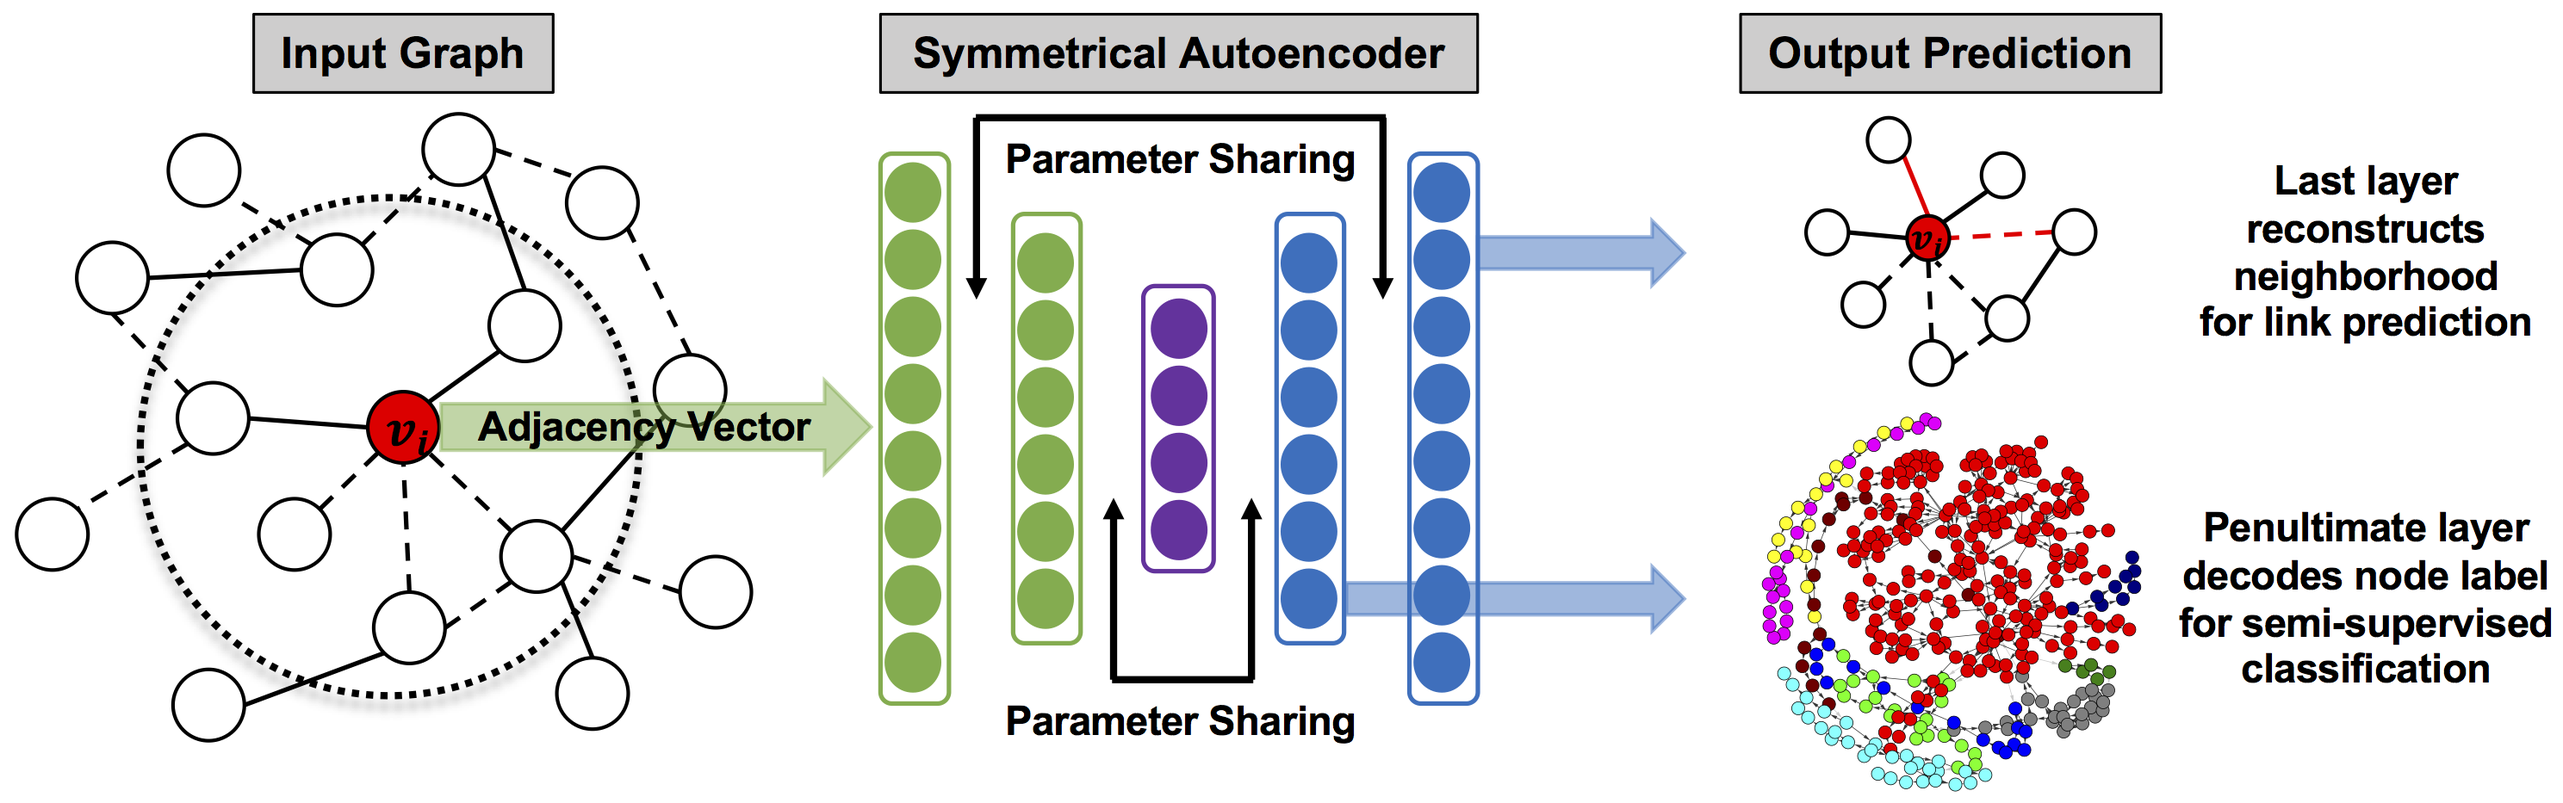
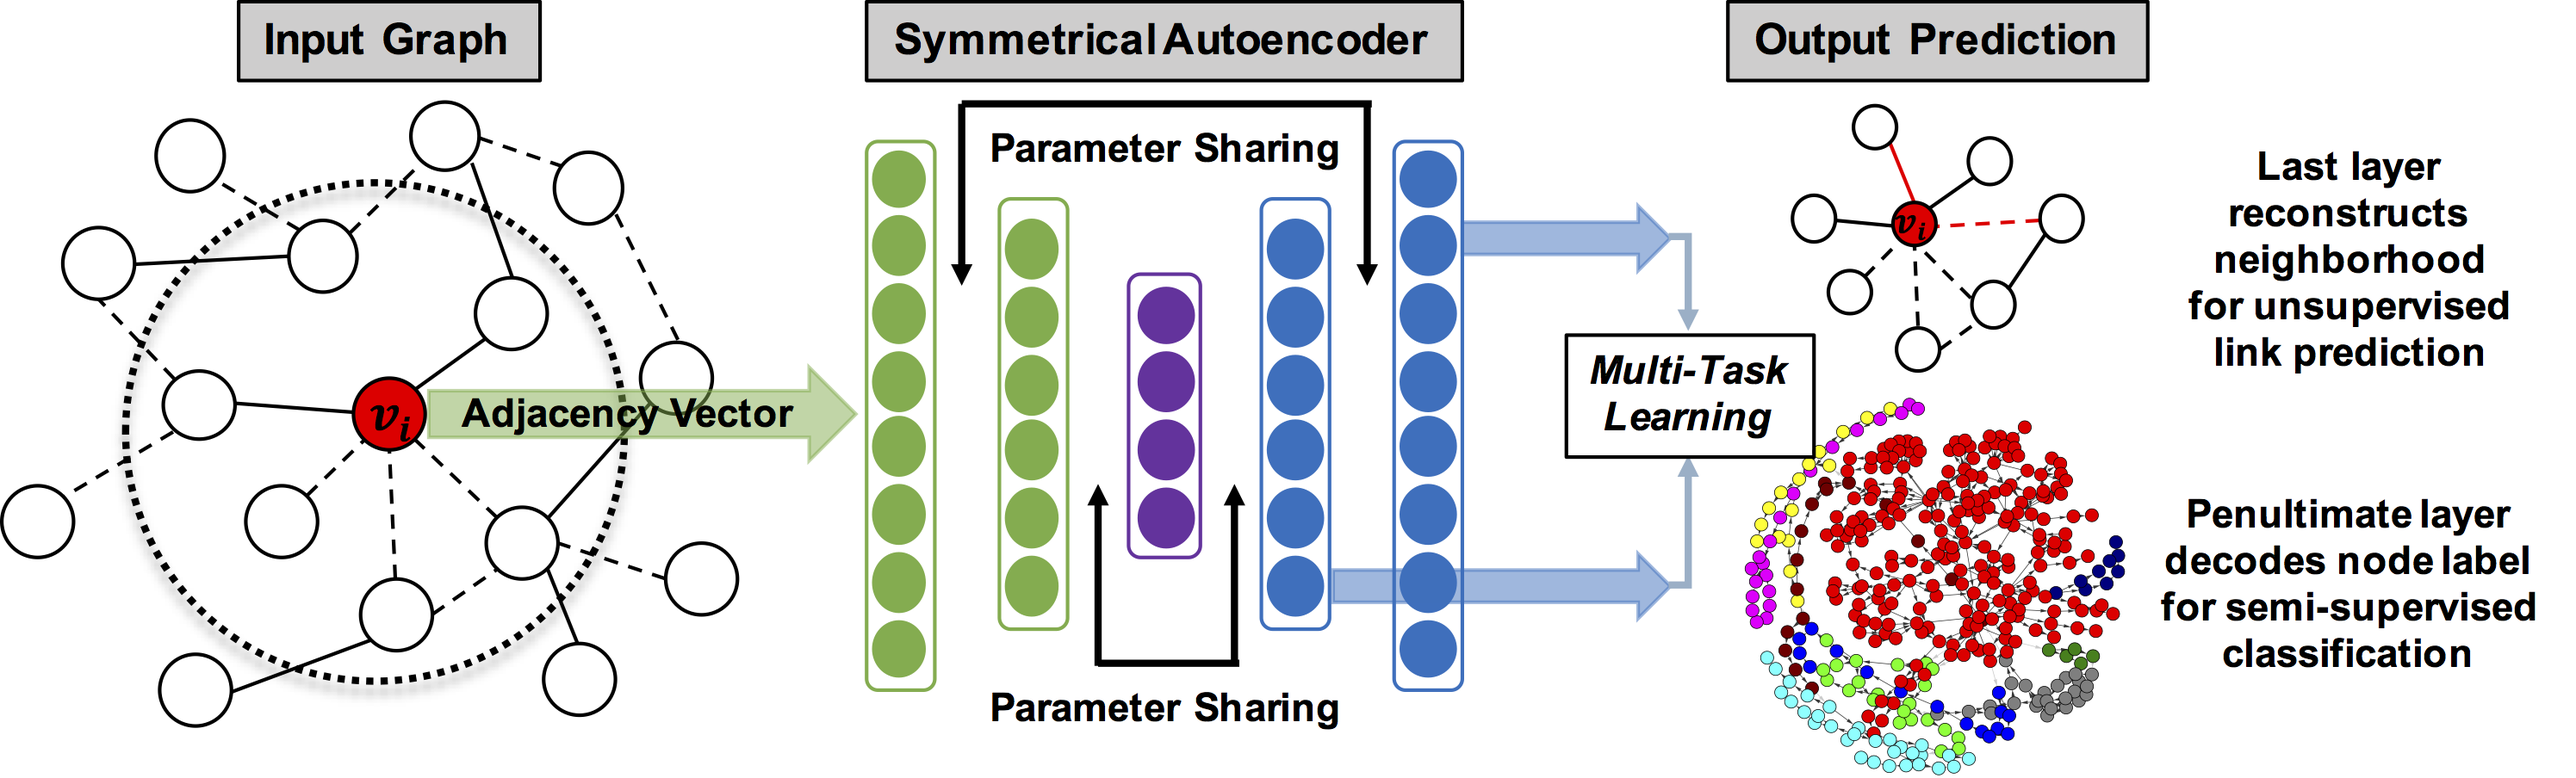
update README

Changed region(s): [[0.0, 0.0, 1.0, 1.0], [0.8438, 0.1858, 1.0, 0.4956]]

diff --git a/README.md b/README.md
@@ -1,9 +1,11 @@
 # Local Neighborhood Graph Autoencoders
 
-This is a Keras implementation of the symmetrical autoencoder architecture with parameter sharing for the tasks of link prediction and semi-supervised node classification, as described in the paper:
+This is a Keras implementation of the symmetrical autoencoder architecture with parameter sharing for the tasks of unsupervised link prediction and semi-supervised node classification, as described in the following:
 
-Tran, Phi Vu: [Learning to Make Predictions on Graphs with Autoencoders.](https://arxiv.org/abs/1802.08352) Proceedings of the 5th IEEE International
-Conference on Data Science and Advanced Analytics (2018).
+Tran, Phi Vu. [Learning to Make Predictions on Graphs with Autoencoders.](https://arxiv.org/abs/1802.08352) Proceedings of the 5th IEEE International
+Conference on Data Science and Advanced Analytics (2018). Full oral paper.
+
+Tran, Phi Vu. [Multi-Task Graph Autoencoders.](https://arxiv.org/abs/1811.02798) NIPS 2018 Workshop on Relational Representation Learning. Short poster paper.
 
 ![FCN_schematic](figure1.png?raw=true)
 
